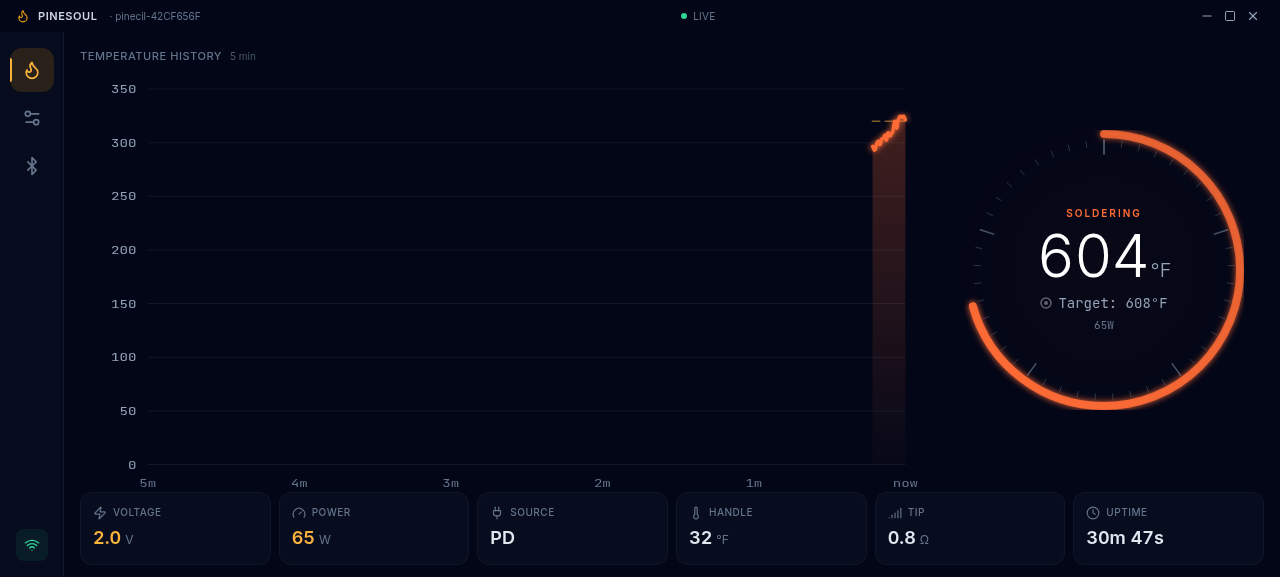
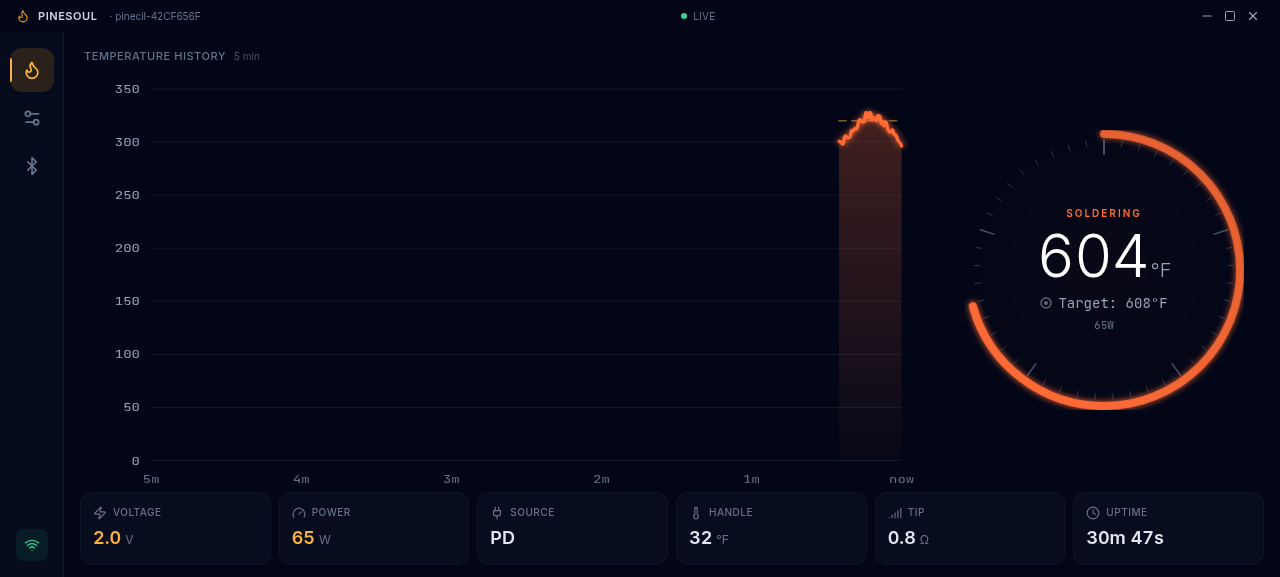
style: add balanced margins around graph for polished look

diff --git a/src/App.jsx b/src/App.jsx
@@ -143,11 +143,11 @@ export default function App() {
                     <div className="flex-1 flex min-h-0 px-4 pt-4 gap-4">
                       {/* Temperature graph — takes remaining space */}
                       <div className="flex-1 min-w-0 flex flex-col">
-                        <div className="flex items-center gap-2 mb-2">
+                        <div className="flex items-center gap-2 mb-2 px-1">
                           <span className="text-[11px] text-iron-500 uppercase tracking-wider font-medium">Temperature History</span>
                           <span className="text-[10px] text-iron-600">5 min</span>
                         </div>
-                        <div className="flex-1 min-h-0 h-full">
+                        <div className="flex-1 min-h-0 px-1 pb-1">
                           <TemperatureGraph history={p.tempHistory} />
                         </div>
                       </div>
